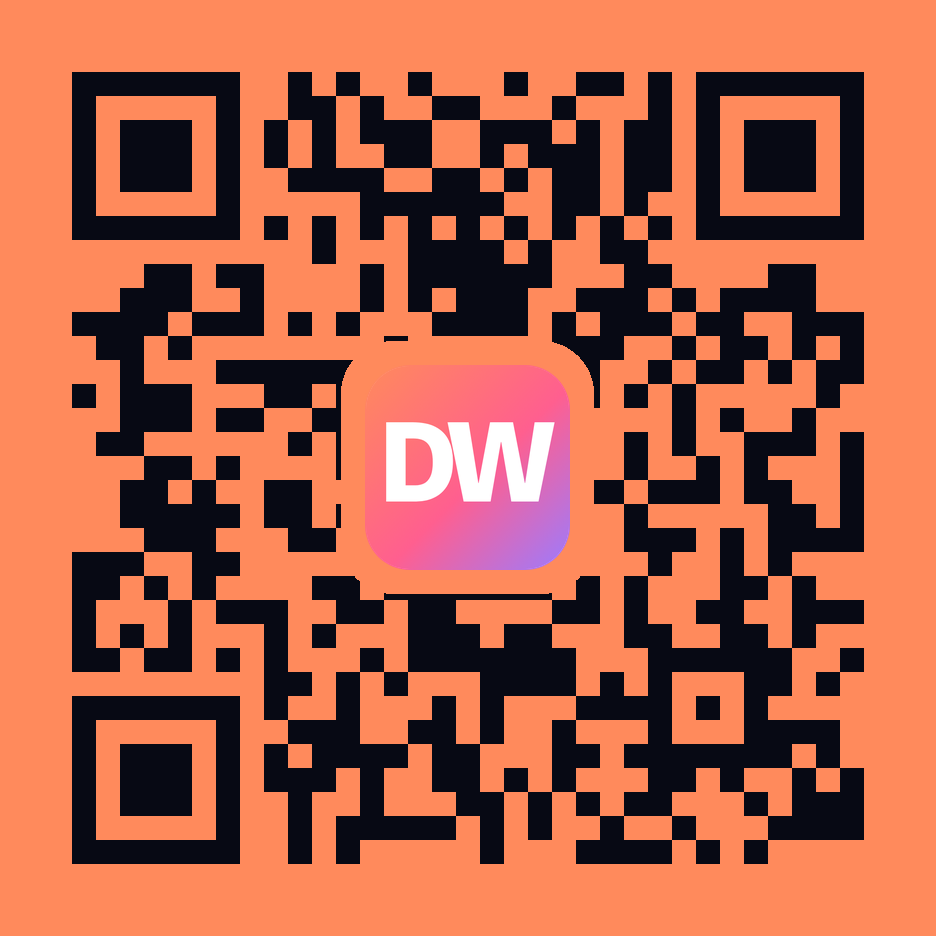
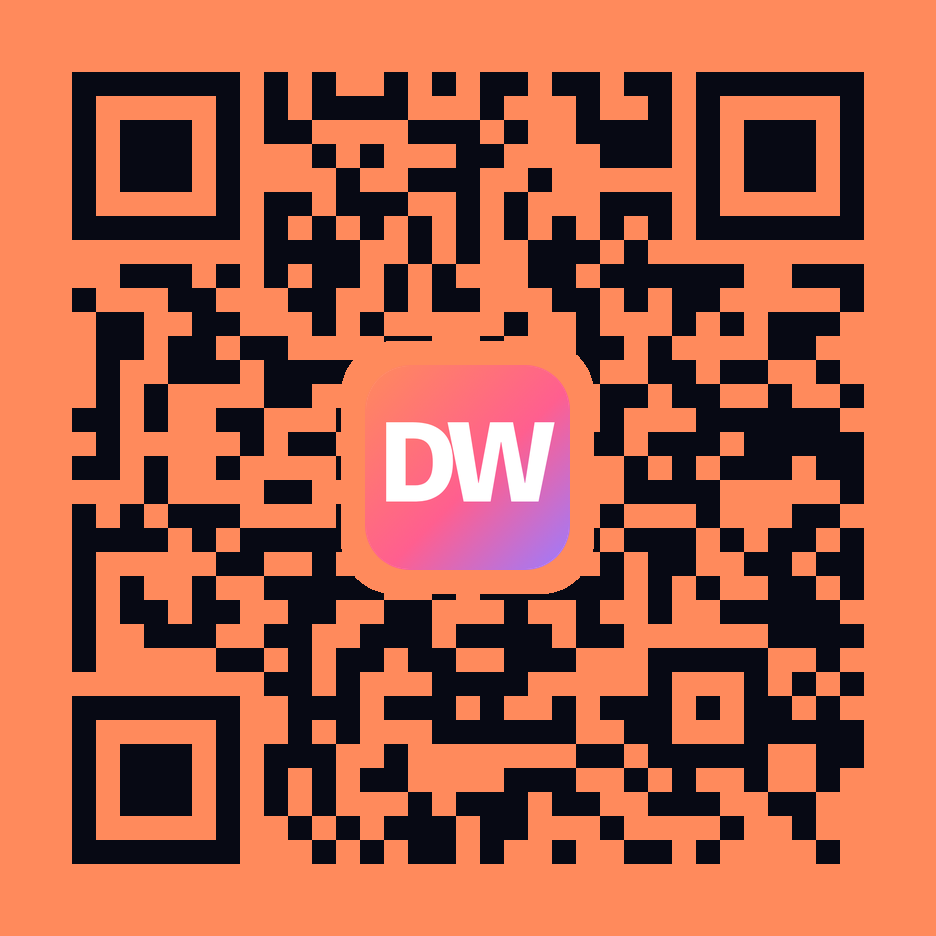
Siapkan domain sendiri deftrianwicaksana.my.id
- File CNAME untuk GitHub Pages
- Canonical, hreflang, Open Graph, data profil, robots, dan sitemap
  memakai alamat baru
- Gambar preview (preview-v3.jpg) dan QR code menampilkan alamat baru

Claude-Session: https://claude.ai/code/session_011m6P4KryGEDCT8EHTHLMKP

Changed region(s): [[0.062, 0.062, 0.9295, 0.9295], [0.3098, 0.4028, 0.3718, 0.4957], [0.2479, 0.4647, 0.2788, 0.4957]]

diff --git a/index.html b/index.html
@@ -6,18 +6,18 @@
 <title>Deftrian Dwi Wicaksana · Portofolio</title>
 <meta name="description" content="Portofolio Deftrian Dwi Wicaksana, mahasiswa Teknik Komputer Telkom University: proyek machine learning, pengalaman organisasi, prestasi, dan sertifikasi.">
 <meta name="google-site-verification" content="wzLdGLFgX-DhnZ3oupdvJrEeLS5F2GIs4_fGH1Pq-NU">
-<link rel="canonical" href="https://badakganteng31.github.io/">
-<link rel="alternate" hreflang="id" href="https://badakganteng31.github.io/">
-<link rel="alternate" hreflang="en" href="https://badakganteng31.github.io/?lang=en">
-<link rel="alternate" hreflang="x-default" href="https://badakganteng31.github.io/">
+<link rel="canonical" href="https://deftrianwicaksana.my.id/">
+<link rel="alternate" hreflang="id" href="https://deftrianwicaksana.my.id/">
+<link rel="alternate" hreflang="en" href="https://deftrianwicaksana.my.id/?lang=en">
+<link rel="alternate" hreflang="x-default" href="https://deftrianwicaksana.my.id/">
 <!-- Data profil untuk Google -->
 <script type="application/ld+json">
 {
   "@context": "https://schema.org",
   "@type": "Person",
   "name": "Deftrian Dwi Wicaksana",
-  "url": "https://badakganteng31.github.io/",
-  "image": "https://badakganteng31.github.io/foto-profil.webp",
+  "url": "https://deftrianwicaksana.my.id/",
+  "image": "https://deftrianwicaksana.my.id/foto-profil.webp",
   "description": "Mahasiswa Teknik Komputer Telkom University dengan minat machine learning, jaringan & IoT, dan kepemimpinan organisasi.",
   "jobTitle": "Mahasiswa Teknik Komputer",
   "affiliation": {
@@ -59,8 +59,8 @@
 <meta property="og:site_name" content="Deftrian Dwi Wicaksana">
 <meta property="og:title" content="Deftrian Dwi Wicaksana · Portofolio">
 <meta property="og:description" content="Mahasiswa Teknik Komputer Telkom University. Machine learning, jaringan & IoT, dan kepemimpinan organisasi.">
-<meta property="og:url" content="https://badakganteng31.github.io/">
-<meta property="og:image" content="https://badakganteng31.github.io/preview-v2.jpg">
+<meta property="og:url" content="https://deftrianwicaksana.my.id/">
+<meta property="og:image" content="https://deftrianwicaksana.my.id/preview-v3.jpg">
 <meta property="og:image:width" content="1200">
 <meta property="og:image:height" content="630">
 <meta property="og:image:alt" content="Deftrian Dwi Wicaksana, mahasiswa Teknik Komputer Telkom University">
@@ -71,7 +71,7 @@
 <meta name="twitter:card" content="summary_large_image">
 <meta name="twitter:title" content="Deftrian Dwi Wicaksana · Portofolio">
 <meta name="twitter:description" content="Mahasiswa Teknik Komputer Telkom University. Machine learning, jaringan & IoT, dan kepemimpinan organisasi.">
-<meta name="twitter:image" content="https://badakganteng31.github.io/preview-v2.jpg">
+<meta name="twitter:image" content="https://deftrianwicaksana.my.id/preview-v3.jpg">
 
 <!-- Ikon tab browser -->
 <link rel="icon" href="favicon.ico" sizes="any">
